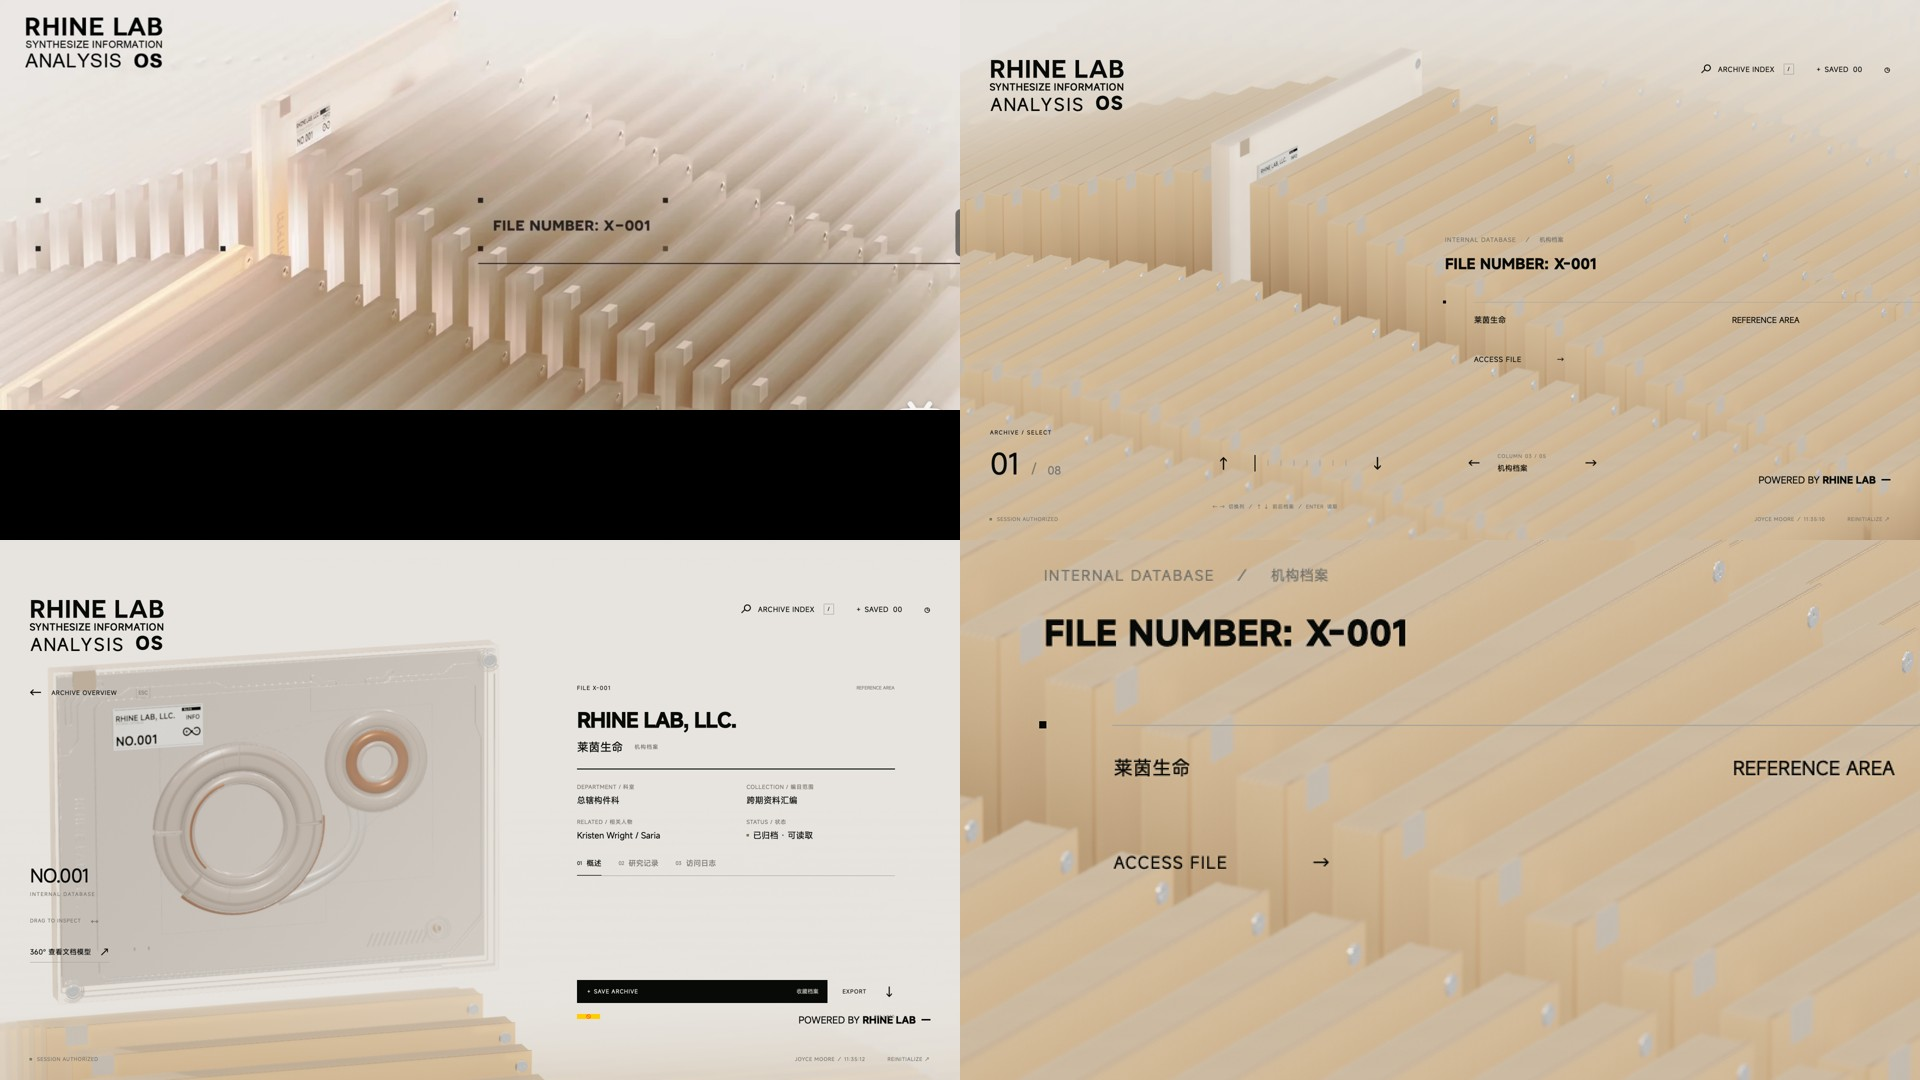
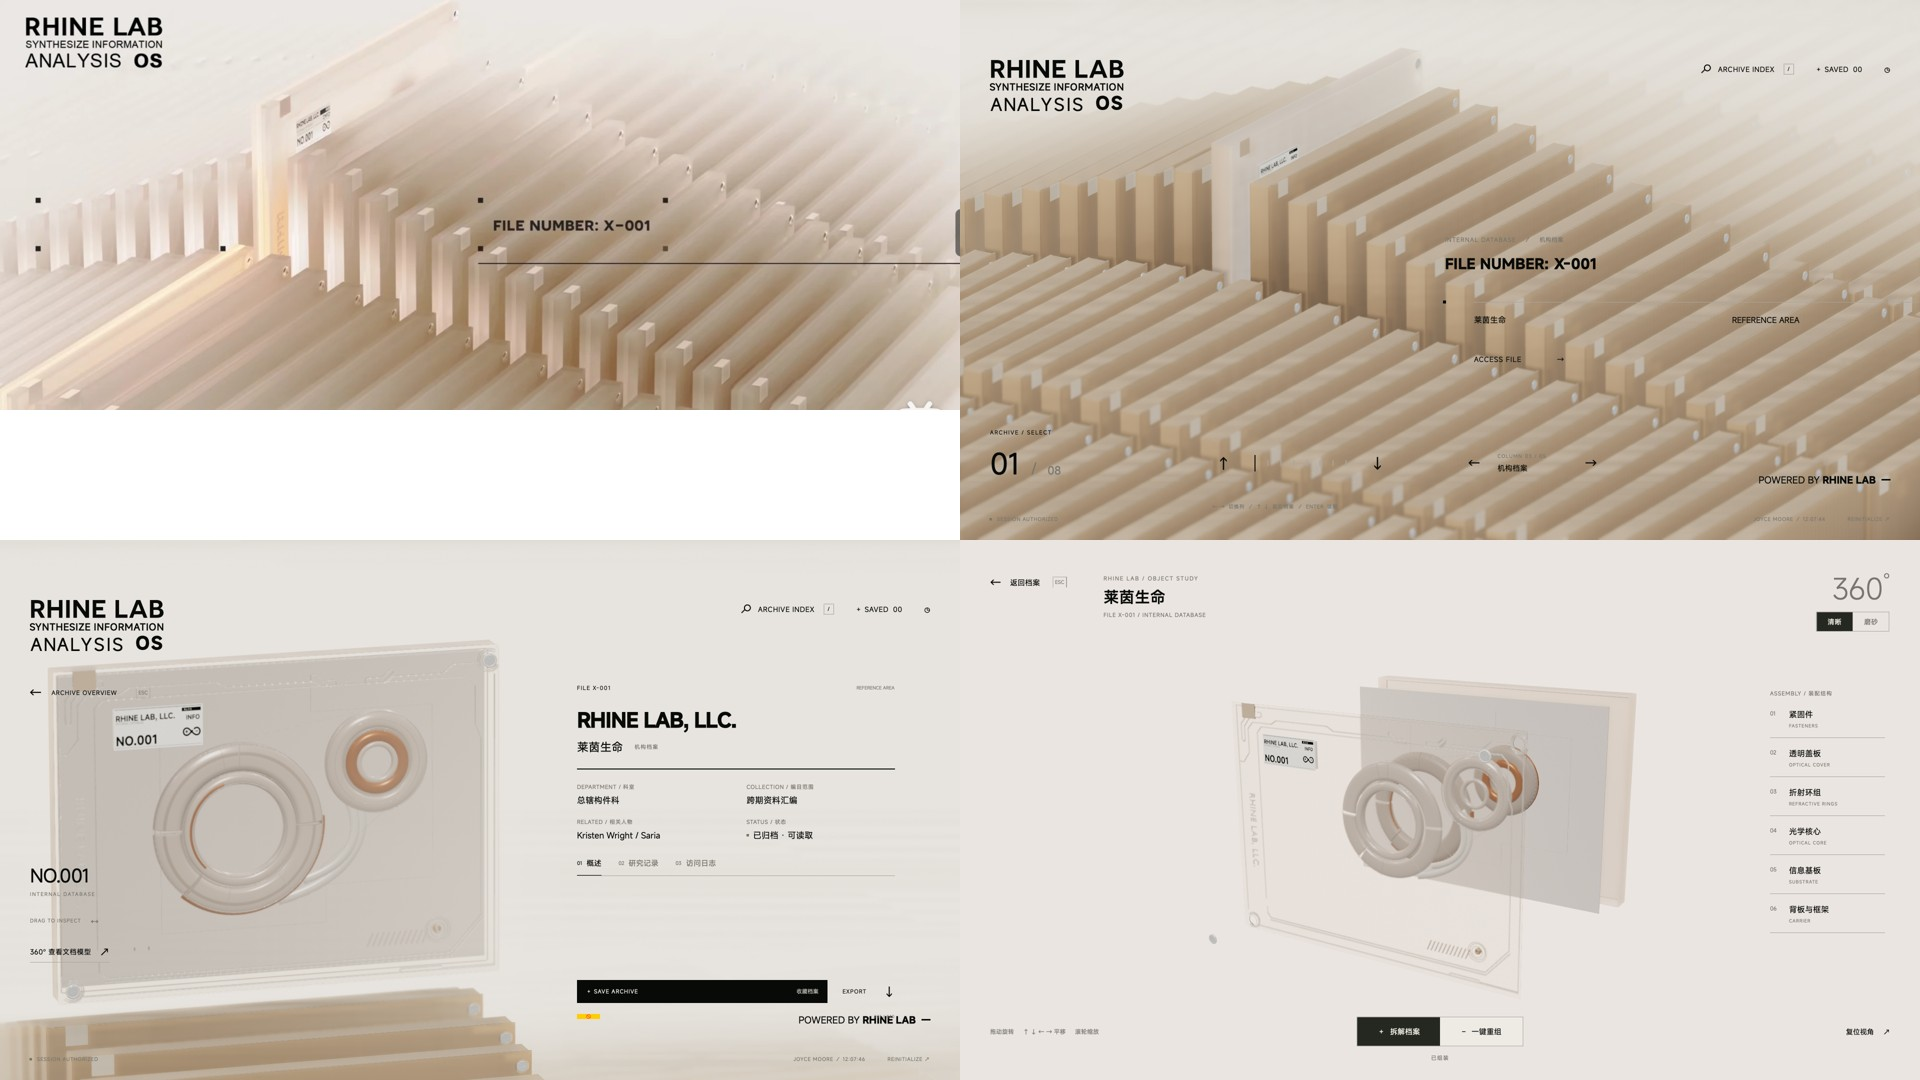
tools: Blender lighting lab; docs: updated video comparison
Claude-Session: https://claude.ai/code/session_0184dNkqaa9mPaYg9eZ4EJ7o

diff --git a/tools/blender-lab.py b/tools/blender-lab.py
@@ -1,0 +1,151 @@
+# Blender lighting lab for the archive array (headless: `pip install bpy`, Blender 4.2).
+#   python3 tools/blender-lab.py B '{"samples":32,"world_strength":0.6,"strip":500000,"fog":0.002}'
+# Variants: A sun from behind-left (web), B strip light left of the camera, C both, D strip behind-left.
+# Renders go to $LAB_OUT (default ./lab-out). Used to work out the video look's lighting.
+import bpy, sys, math, json, os
+from mathutils import Vector
+OUT = os.environ.get('LAB_OUT', './lab-out') + '/'
+os.makedirs(OUT, exist_ok=True)
+ROOT = os.path.join(os.path.dirname(os.path.abspath(__file__)), '..')
+variant = sys.argv[1] if len(sys.argv) > 1 else 'A'
+cfg = json.loads(sys.argv[2]) if len(sys.argv) > 2 else {}
+samples = cfg.get('samples', 48)
+
+def G(x, y, z):   # glTF (y-up) -> Blender (z-up)
+    return Vector((x, -z, y))
+
+bpy.ops.wm.read_factory_settings(use_empty=True)
+scene = bpy.context.scene
+scene.render.engine = 'CYCLES'
+scene.cycles.device = 'CPU'
+scene.cycles.samples = samples
+scene.cycles.use_denoising = True
+scene.render.resolution_x = 960; scene.render.resolution_y = 540
+scene.view_settings.view_transform = 'Filmic' if 'Filmic' in [i.identifier for i in bpy.types.ColorManagedViewSettings.bl_rna.properties['view_transform'].enum_items] else 'AgX'
+scene.view_settings.exposure = cfg.get('exposure', 0.0)
+
+# --- card
+bpy.ops.import_scene.gltf(filepath=os.path.join(ROOT, 'Resources/Models/archive-cassette.glb'))
+parts = [o for o in bpy.context.scene.objects if o.type == 'MESH']
+keep = {'Frosted_Polymer', 'Ivory_Edges', 'Optical_Diffuser', 'Titanium_Fasteners', 'Index_Inlay', 'Printed_Label'}
+for o in parts:
+    name = o.active_material.name.split('.')[0] if o.active_material else ''
+    if name not in keep:
+        bpy.data.objects.remove(o)
+parts = [o for o in bpy.context.scene.objects if o.type == 'MESH']
+bpy.ops.object.select_all(action='DESELECT')
+for o in parts: o.select_set(True)
+bpy.context.view_layer.objects.active = parts[0]
+bpy.ops.object.join()
+card = bpy.context.view_layer.objects.active
+card.name = 'Card'
+
+def principled(mat, base, rough, transmission=0.0, ior=1.46, metallic=0.0):
+    mat.use_nodes = True
+    nt = mat.node_tree
+    for n in list(nt.nodes): nt.nodes.remove(n)
+    out = nt.nodes.new('ShaderNodeOutputMaterial'); p = nt.nodes.new('ShaderNodeBsdfPrincipled')
+    nt.links.new(p.outputs[0], out.inputs[0])
+    r, g, b = [int(base[i:i+2], 16) / 255 for i in (0, 2, 4)]
+    def lin(c): return c / 12.92 if c <= 0.04045 else ((c + 0.055) / 1.055) ** 2.4
+    p.inputs['Base Color'].default_value = (lin(r), lin(g), lin(b), 1)
+    p.inputs['Roughness'].default_value = rough
+    p.inputs['Metallic'].default_value = metallic
+    p.inputs['IOR'].default_value = ior
+    p.inputs['Transmission Weight'].default_value = transmission
+    if transmission > 0 and cfg.get('subsurface', 0) > 0:
+        p.inputs['Subsurface Weight'].default_value = cfg['subsurface']
+        p.inputs['Subsurface Radius'].default_value = (1.0, 0.6, 0.3)
+        p.inputs['Subsurface Scale'].default_value = cfg.get('sss_scale', 0.3)
+
+frost_t = cfg.get('frost_t', 0.9); ivory_t = cfg.get('ivory_t', 0.6)
+for slot in card.material_slots:
+    m = slot.material; name = m.name.split('.')[0]
+    if cfg.get('diag'):
+        principled(m, {'Frosted_Polymer': 'ff2020', 'Ivory_Edges': '2040ff', 'Optical_Diffuser': '20c020'}.get(name, '808080'), 0.6); continue
+    if name == 'Frosted_Polymer': principled(m, cfg.get('frost', 'fff7ed'), cfg.get('rough', 0.3), frost_t)
+    elif name == 'Ivory_Edges': principled(m, cfg.get('ivory', 'f0e7df'), 0.35, ivory_t)
+    elif name == 'Optical_Diffuser': principled(m, cfg.get('diffuser', 'e2dad4'), 0.7)
+    elif name == 'Titanium_Fasteners': principled(m, 'c8c8c8', 0.25, metallic=0.9)
+    elif name == 'Index_Inlay': principled(m, 'e4d6c5', 0.5)
+    else: principled(m, 'eae5dc', 0.6)
+
+# --- array: 9 lanes x 32 rows, spacing 5.2 (x) / 0.62 (z, glTF)
+coll = bpy.data.collections.new('Array'); scene.collection.children.link(coll)
+for lane in range(9):
+    for row in range(32):
+        o = card.copy(); o.data = card.data
+        x = (lane - 2) * 5.2; z = (row - 15.5) * 0.62
+        wave = 0.35 * math.sin(row * 0.45 + lane * 0.9) * cfg.get('wave', 1.0)
+        o.location = G(x, wave, z)
+        coll.objects.link(o)
+bpy.data.objects.remove(card)
+
+# floor
+bpy.ops.mesh.primitive_plane_add(size=400, location=G(0, -0.05, 0))
+floor = bpy.context.object
+fm = bpy.data.materials.new('Floor'); principled(fm, cfg.get('floor', 'd8c9b9'), 0.95); floor.data.materials.append(fm)
+
+# --- camera (engine browsing pose)
+yaw, el = math.radians(59), math.radians(19)
+d = Vector((-math.sin(yaw) * math.cos(el), math.sin(el), math.cos(yaw) * math.cos(el)))
+det = cfg.get('detail', 0.0)
+d = (d.lerp(Vector((-0.277, 0.238, 0.931)), det)).normalized()
+aim = Vector((-1.091, -0.045, 0.481)); dist = cfg.get('dist', 140 * (1 - det) + 72 * det)
+pos = aim + d * dist
+cam = bpy.data.cameras.new('Cam'); cam_o = bpy.data.objects.new('Cam', cam); scene.collection.objects.link(cam_o)
+cam_o.location = G(*pos)
+look = G(*aim) - cam_o.location
+cam_o.rotation_euler = look.to_track_quat('-Z', 'Y').to_euler()
+span = 7.33 * (1 - det) + 5.9 * det; fov = 2 * math.atan(span / (2 * dist))
+cam.sensor_fit = 'VERTICAL'; cam.sensor_height = 24
+cam.lens = 24 / (2 * math.tan(fov / 2))
+print('camera lens mm', cam.lens, 'fov deg', math.degrees(fov), 'pos', cam_o.location)
+cam.clip_end = 1000
+if cfg.get('dof', 0) > 0:
+    cam.dof.use_dof = True; cam.dof.focus_distance = dist; cam.dof.aperture_fstop = cfg['dof']
+scene.camera = cam_o
+
+# --- world
+w = bpy.data.worlds.new('W'); scene.world = w; w.use_nodes = True
+bg = w.node_tree.nodes['Background']
+wc = cfg.get('world', 'eae5e1'); r, g, b = [int(wc[i:i+2], 16) / 255 for i in (0, 2, 4)]
+bg.inputs[0].default_value = (r ** 2.2, g ** 2.2, b ** 2.2, 1); bg.inputs[1].default_value = cfg.get('world_strength', 1.0)
+if cfg.get('fog', 0) > 0:
+    vs = w.node_tree.nodes.new('ShaderNodeVolumeScatter'); vs.inputs['Density'].default_value = cfg['fog']
+    vs.inputs['Anisotropy'].default_value = 0.3
+    w.node_tree.links.new(vs.outputs[0], w.node_tree.nodes['World Output'].inputs['Volume'])
+
+# --- lights
+def sun(direction, energy, color):
+    l = bpy.data.lights.new('Sun', 'SUN'); l.energy = energy; l.color = color; l.angle = math.radians(cfg.get('sun_angle', 5))
+    o = bpy.data.objects.new('Sun', l); scene.collection.objects.link(o)
+    v = G(*direction)
+    o.rotation_euler = (-v).to_track_quat('-Z', 'Y').to_euler()   # sun shines along -Z local
+    return o
+def area(position, target, size, size_y, energy, color):
+    l = bpy.data.lights.new('Area', 'AREA'); l.shape = 'RECTANGLE'; l.size = size; l.size_y = size_y
+    l.energy = energy; l.color = color
+    o = bpy.data.objects.new('Area', l); scene.collection.objects.link(o)
+    o.location = G(*position); look = G(*target) - o.location
+    o.rotation_euler = look.to_track_quat('-Z', 'Y').to_euler()
+    return o
+warm = (1.0, 0.86, 0.66)
+right = Vector((0, 1, 0)).cross(d).normalized()  # camera right in glTF space
+up = d.cross(right).normalized()
+if variant == 'A':      # web-like sun from behind-left-above
+    sun((-6, 14, -5), cfg.get('sun', 4), (1, 0.95, 0.88))
+elif variant == 'B':    # long strip light low on the camera's left, aimed across the array
+    p = aim - right * cfg.get('sx', 60) + up * cfg.get('sy', -10) + d * cfg.get('sz', 40)
+    area(tuple(p), tuple(aim + right * 20), cfg.get('strip_len', 80), cfg.get('strip_w', 3), cfg.get('strip', 60000), warm)
+elif variant == 'C':    # strip from lower-left plus soft sun from behind
+    p = aim - right * 60 - up * 10 + d * 40
+    area(tuple(p), tuple(aim + right * 20), cfg.get('strip_len', 80), cfg.get('strip_w', 3), cfg.get('strip', 60000), warm)
+    sun((-6, 14, -5), cfg.get('sun', 1.5), (1, 0.95, 0.88))
+elif variant == 'D':    # strip behind-left (backlight), low
+    p = aim - right * 50 - d * 60 + up * 5
+    area(tuple(p), tuple(aim), cfg.get('strip_len', 80), cfg.get('strip_w', 3), cfg.get('strip', 60000), warm)
+
+scene.render.filepath = OUT + f'render-{variant}-{cfg.get("tag","")}.png'
+bpy.ops.render.render(write_still=True)
+print('wrote', scene.render.filepath)
